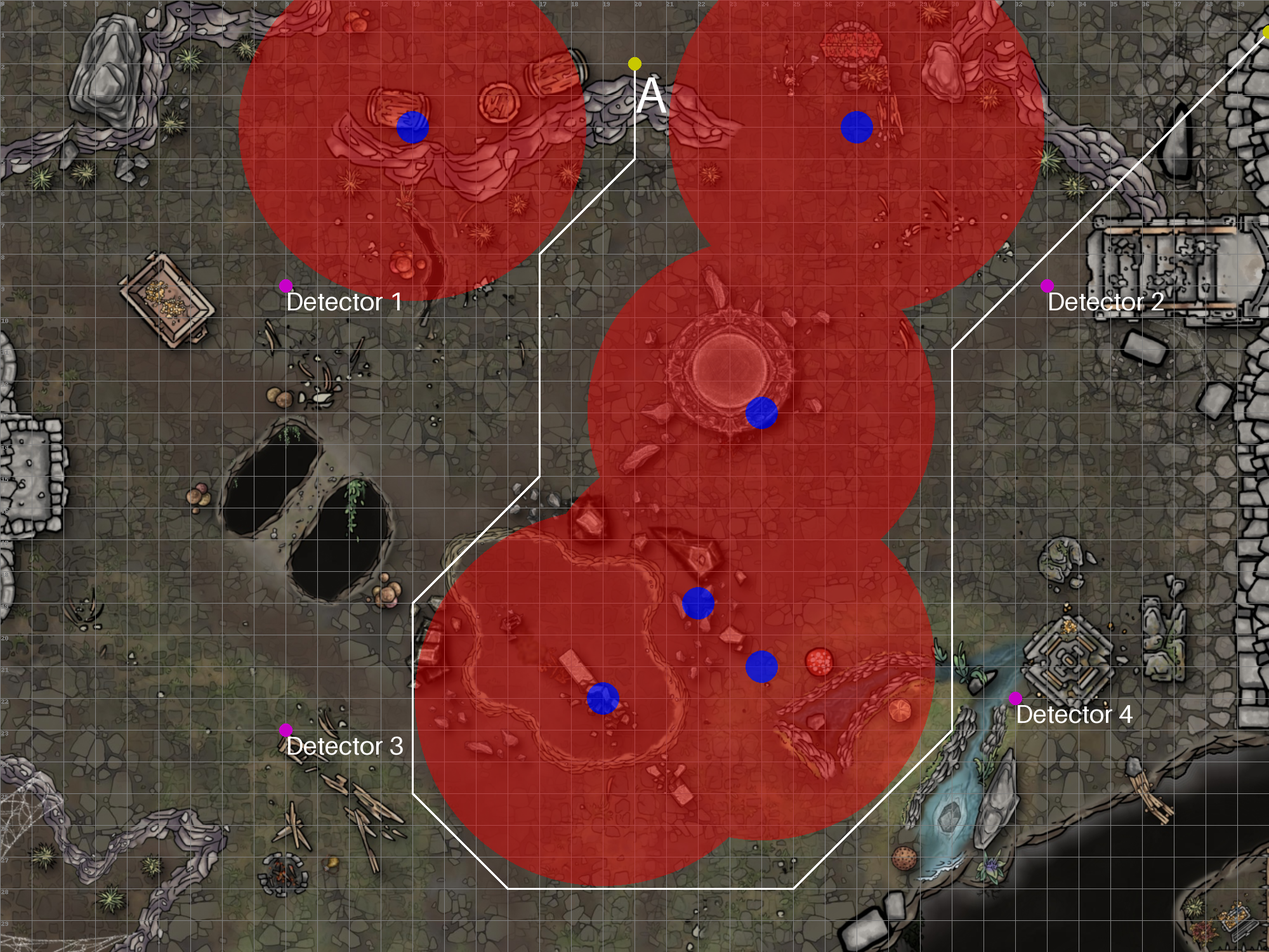
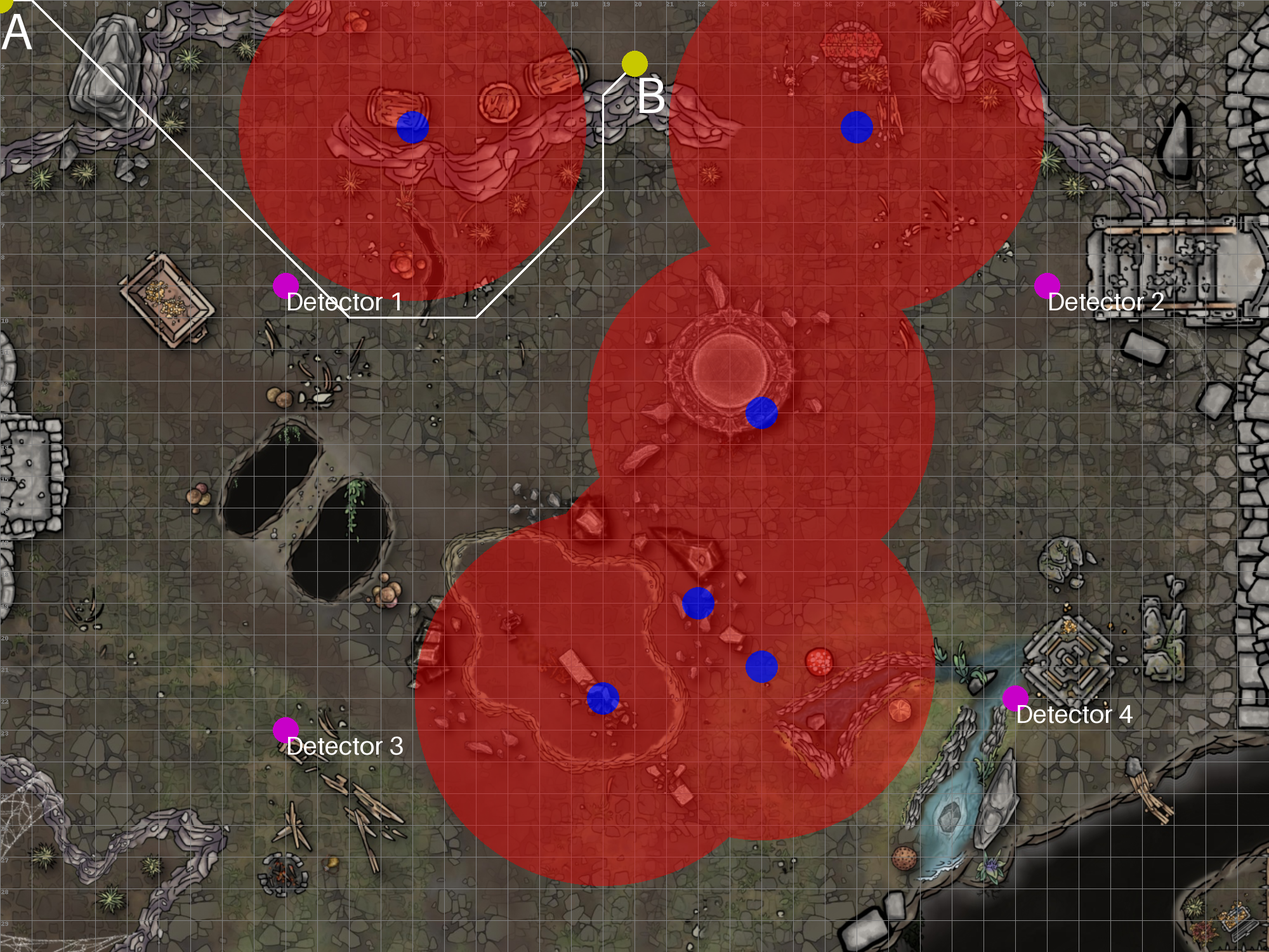
Final version 2

diff --git a/static/css/styles.css b/static/css/styles.css
@@ -79,7 +79,7 @@ main > .container, main {
 }
 
 .map {
-    width: 100%;
+    width: 70%;
     height: auto;
 }
 

diff --git a/map_parser.py b/map_parser.py
@@ -58,15 +58,15 @@ def draw_anomalous(arr, s, f):
             drawer.line((path_[i - 1][0] * 50, path_[i - 1][1] * 50,
                          path_[i][0] * 50, path_[i][1] * 50), fill=(255, 255, 255), width=3)
         drawer.ellipse((
-            (path_[0][0] * 50 - 10, path_[0][1] * 50 - 10),
-            (path_[0][0] * 50 + 10, path_[0][1] * 50 + 10)), fill=(200, 200, 0))
+            (path_[0][0] * 50 - 20, path_[0][1] * 50 - 20),
+            (path_[0][0] * 50 + 20, path_[0][1] * 50 + 20)), fill=(200, 200, 0))
         drawer.text(
             (path_[0][0] * 50, path_[0][1] * 50),
             'A', font_size=80
         )
         drawer.ellipse((
-            (path_[-1][0] * 50 - 10, path_[-1][1] * 50 - 10),
-            (path_[-1][0] * 50 + 10, path_[-1][1] * 50 + 10)), fill=(200, 200, 0))
+            (path_[-1][0] * 50 - 20, path_[-1][1] * 50 - 20),
+            (path_[-1][0] * 50 + 20, path_[-1][1] * 50 + 20)), fill=(200, 200, 0))
         drawer.text(
             (path_[-1][0] * 50, path_[-1][1] * 50),
             'B', font_size=80
@@ -74,8 +74,8 @@ def draw_anomalous(arr, s, f):
     detectors = [el['coords'] for el in json.load(open('data.json', mode='rb'))]
     for idx, el in enumerate(detectors):
         drawer.ellipse((
-            (el[0] * 50 - 10, el[1] * 50 - 10),
-            (el[0] * 50 + 10, el[1] * 50 + 10)), fill=(200, 0, 200))
+            (el[0] * 50 - 20, el[1] * 50 - 20),
+            (el[0] * 50 + 20, el[1] * 50 + 20)), fill=(200, 0, 200))
         drawer.text(
             (el[0] * 50, el[1] * 50),
             f'Detector {idx + 1}', font_size=40

diff --git a/forms/add_route.py b/forms/add_route.py
@@ -4,9 +4,9 @@ from wtforms.validators import DataRequired
 
 
 class Route(FlaskForm):
-    coor_ax = IntegerField("Координата X точки A", validators=[DataRequired()])
-    coor_ay = IntegerField("Координата Y точки A", validators=[DataRequired()])
+    coor_ax = IntegerField("Координата X точки A", default=0)
+    coor_ay = IntegerField("Координата Y точки A", default=0)
 
-    coor_bx = IntegerField("Координата X точки B", validators=[DataRequired()])
-    coor_by = IntegerField("Координата Y точки B", validators=[DataRequired()])
+    coor_bx = IntegerField("Координата X точки B", default=0)
+    coor_by = IntegerField("Координата Y точки B", default=0)
     submit = SubmitField('куда идти, если я не хочу сдохнуть?')

diff --git a/forms/add_point.py b/forms/add_point.py
@@ -5,8 +5,8 @@ from wtforms.validators import DataRequired
 
 class Point(FlaskForm):
     id_point = IntegerField("Id детектора", validators=[DataRequired()])
-    coor_x = IntegerField("Координаты X", validators=[DataRequired()])
-    coor_y = IntegerField("Координаты Y", validators=[DataRequired()])
+    coor_x = IntegerField("Координаты X", default=0)
+    coor_y = IntegerField("Координаты Y", default=0)
 
     anomalia_id_1 = StringField("Id аномалии 1")
     anomali_rate_1 = FloatField("Радиация аномалии 1")
